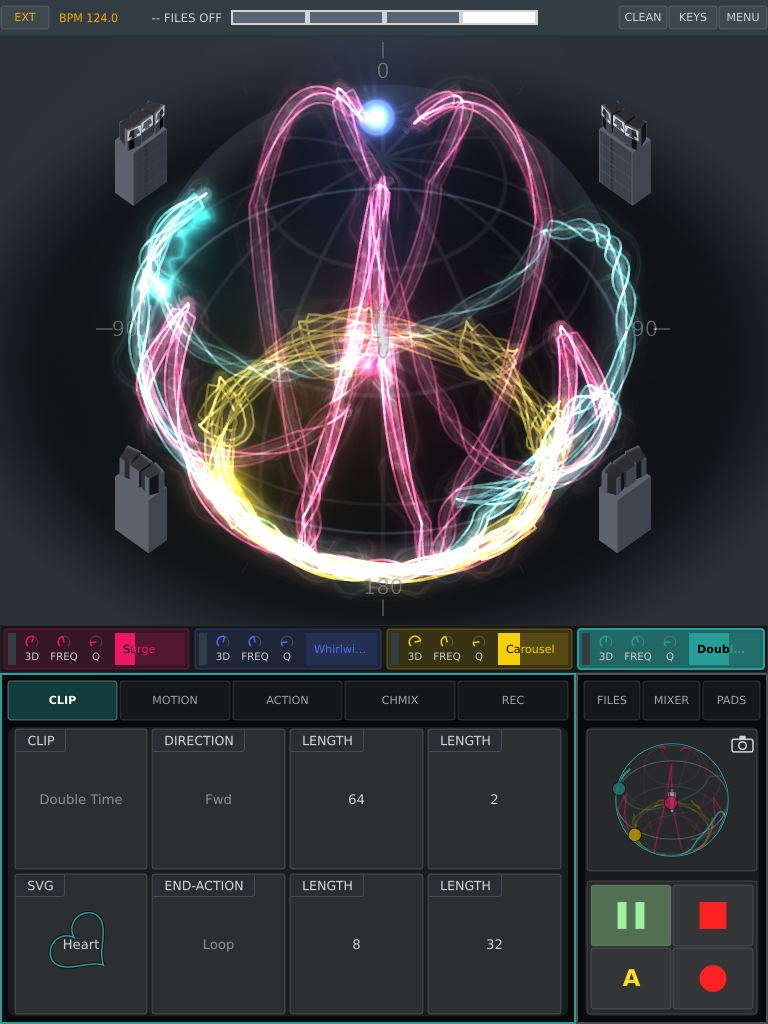
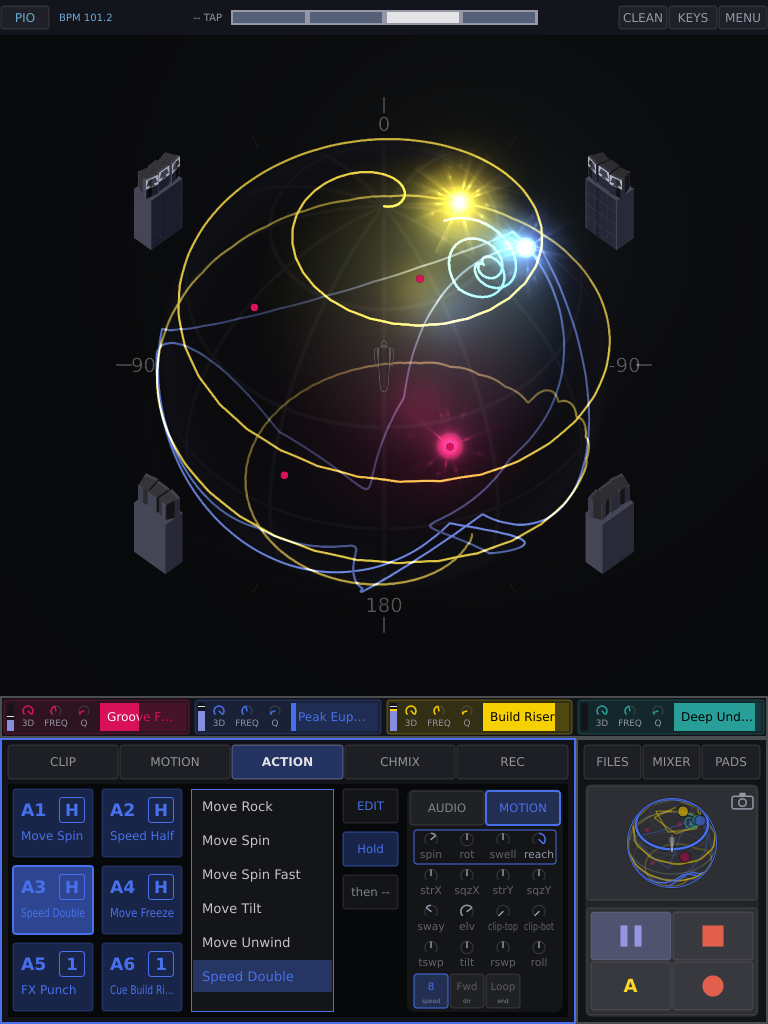
docs(motion): fresh main screen, channel row and ACTION page
Taken from the rig's screen without touching it. Placeholders name the
pictures that need a tap or the sandbox: FILES, MIXER, PADS, the Skin
Editor and the keyboard.

diff --git a/src/user/a3motion.md b/src/user/a3motion.md
@@ -652,7 +652,9 @@ Delete; text typed in the editor stays, marked unsaved.
 
 ### The main screen
 
-![The main screen: status bar, sphere, channel row, bar and global strip](pics_user/a3-motion-ui-display-one-clip.png)
+![The main screen, here with the ACTION page in the bar: status bar, sphere, channel row, bar and global strip](pics_user/a3-motion-ui-display-one-clip.png)
+
+<!-- The main screen, the channel row and the ACTION page were taken on 2026-09-30 from the rig's running A³ Motion, which runs the skin "custom" (quiet-indigo-2's colours with the maintainer's effect settings), not quiet-indigo-2 itself: the sandbox would have stopped the live service. Re-shoot in quiet-indigo-2 when the sandbox may run. -->
 
 Top to bottom:
 
@@ -940,6 +942,8 @@ preparing.** During a set you need **Load** and nothing else.
 
 ![FILES, with the set "Peak" shown](pics_user/a3-motion-ui-files-sets.png)
 
+<!-- IMAGE: FILES › SETS in quiet-indigo-2, to replace a3-motion-ui-files-sets.png, which is still in the old skin. Not taken on 2026-09-30: opening FILES needs a tap on the rig's running A³ Motion. -->
+
 On the left, top to bottom: the four tabs **SETS**, **CLIPS**, **SVG** and
 **ACTIONS**, two by two; **from set** / **from clip**; the filter; the list;
 then the keys. On the right, the **editor** with the chosen file as text.
@@ -989,7 +993,7 @@ Anything you turn here, the desk sees too, and the other way round. Tap
 **MIXER** in the global strip; it opens on top of the sphere until you tap
 MIXER again, a tab, or MENU.
 
-<!-- Screenshot to be re-shot in quiet-indigo-2: the MIXER overlay. The old
+<!-- IMAGE: the MIXER overlay, in quiet-indigo-2. Not taken on 2026-09-30: opening it needs a tap on the rig's running A³ Motion. The old
 a3-motion-ui-mixer-overlay.png shows a VOL knob, an MST knob and a filter row
 that are gone. -->
 
@@ -1057,6 +1061,8 @@ screen holds it. A key's face lights while it is active: SHIFT held, a take
 running, the menu open, TAP pressed or on the beat.
 
 ![The PADS window](pics_user/a3-motion-ui-pads.png)
+
+<!-- IMAGE: the PADS window as it is since the PADS panel of 2026-09-30 (square pads on six rows, the function keys at both ends, the grey block), in quiet-indigo-2, to replace a3-motion-ui-pads.png, which shows the earlier layout. Not taken: opening PADS needs a tap on the rig's running A³ Motion. -->
 
 - **Play\|Pause** starts or stops the clip on the **next downbeat**.
   **SHIFT + Play\|Pause** does it now, which is also how you stop a running
@@ -1173,6 +1179,8 @@ fire only on a double tap or ENTER.
   default skin it saves a copy called **custom** and switches to it, so the
   default itself is never written over.
 
+<!-- IMAGE: the Skin Editor with its sections, in quiet-indigo-2. Not taken on 2026-09-30: it has to be taken in the sandbox, never on the rig, because leaving the editor writes the skin. -->
+
 <!-- QUESTION (maintainer): the colour picker has no undo (closeColourPicker keeps what applyPickedColour already wrote into the document) and no Escape, while the edit box undoes the whole document on Escape (_documentBeforeMask). Should the picker undo on back/Escape like the edit box? -->
 
 #### Network, Button LEDs, Pattern Folder
@@ -1215,6 +1223,8 @@ keys, so every key sits above exactly one encoder:
 | 4 | **123** ◀ ▶ · **SPACE** · **ESC** **HIDE** | the same, with **ABC** for 123 |
 
 The symbols page holds what scripts, clips and sets are written with.
+
+<!-- IMAGE: the keyboard in the bar's place (768x352 crop from y 672), in quiet-indigo-2. Not taken on 2026-09-30: KEYS needs a tap on the rig's running A³ Motion. -->
 
 - **SHIFT** once: the next letter is a capital. Twice: caps lock. A third
   time: off. The panel's SHIFT held while you tap a key also gives a capital.

diff --git a/src/development/moc.md b/src/development/moc.md
@@ -14,7 +14,7 @@ Built with `build.sh`; the test suite runs with `ctest` from `build/` and is
 currently around 1,100 cases.
 
 ## Current Version — V03
-![The A³ Motion UI as it stands, CLIP page](pics_development/a3motion_ui_v03.png)
+![The A³ Motion UI as it stands on 2026-09-30, ACTION page open](../user/pics_user/a3-motion-ui-display-one-clip.png)
 
 ## The software mixer
 
